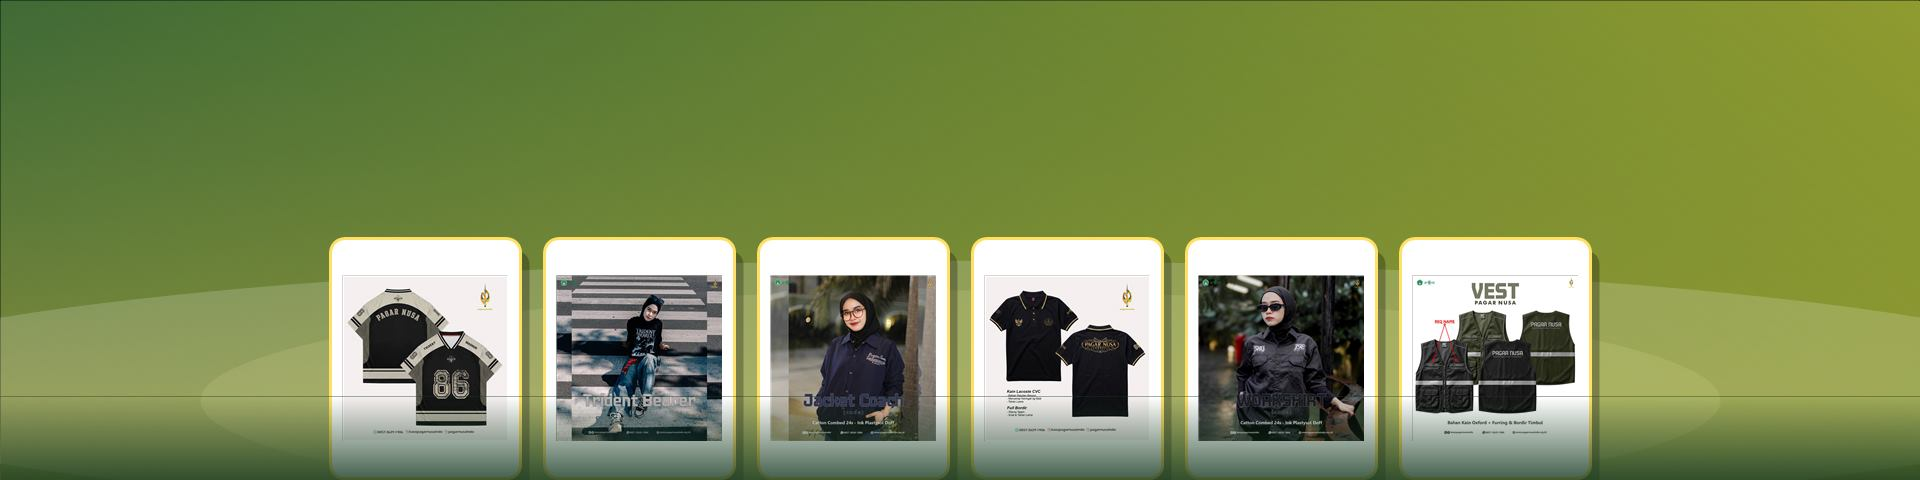
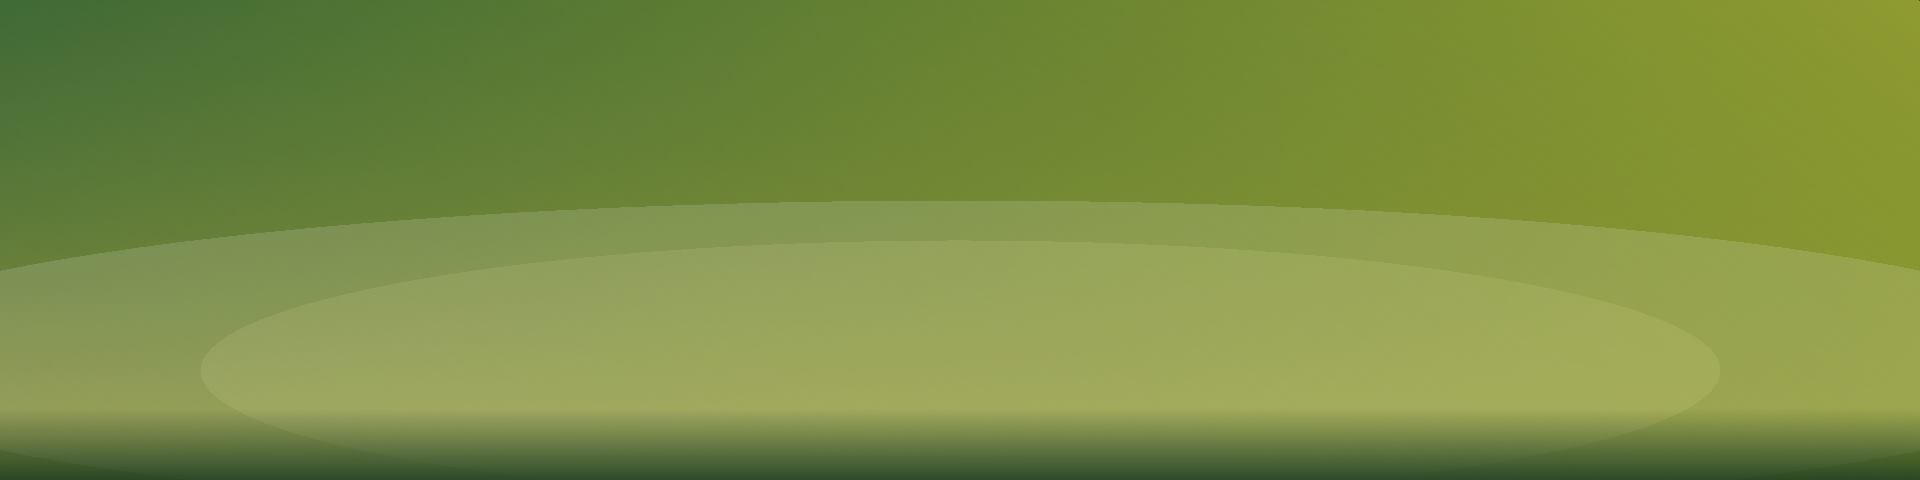
Carousel produk header: 3 kartu terlihat + panah geser

diff --git a/index.html b/index.html
@@ -104,6 +104,81 @@ header {
             text-shadow: 1px 1px 3px rgba(0,0,0,0.5);
         }
 
+        /* ===== CAROUSEL PRODUK DI HEADER ===== */
+        .carousel {
+            position: relative;
+            z-index: 1;
+            width: 92%;
+            max-width: 1200px;
+            margin: 0.4rem auto 1rem;
+        }
+
+        .carousel-viewport {
+            overflow: hidden;
+            border-radius: 14px;
+        }
+
+        .carousel-track {
+            display: flex;
+            gap: 16px;
+            transition: transform 0.4s ease;
+        }
+
+        .carousel-card {
+            flex: 0 0 calc((100% - 32px) / 3);
+            background: white;
+            border-radius: 12px;
+            overflow: hidden;
+            box-shadow: 0 4px 18px rgba(0,0,0,0.22);
+            border: 3px solid rgba(245,214,71,0.55);
+        }
+
+        .carousel-card img {
+            width: 100%;
+            aspect-ratio: 1 / 1;
+            object-fit: cover;
+            display: block;
+        }
+
+        .carousel-card .card-name {
+            padding: 0.55rem 0.4rem;
+            text-align: center;
+            font-weight: 600;
+            font-size: 0.88rem;
+            color: #1f4a2d;
+            background: white;
+            white-space: nowrap;
+            overflow: hidden;
+            text-overflow: ellipsis;
+        }
+
+        .carousel-arrow {
+            position: absolute;
+            top: 50%;
+            transform: translateY(-50%);
+            width: 44px;
+            height: 44px;
+            border-radius: 50%;
+            background: rgba(0,0,0,0.55);
+            color: #fff;
+            border: 2px solid rgba(255,255,255,0.35);
+            font-size: 1.4rem;
+            cursor: pointer;
+            display: flex;
+            align-items: center;
+            justify-content: center;
+            z-index: 10;
+            transition: background 0.2s;
+            box-shadow: 0 2px 8px rgba(0,0,0,0.35);
+        }
+
+        .carousel-arrow:hover {
+            background: rgba(0,0,0,0.82);
+        }
+
+        .carousel-arrow.prev { left: -22px; }
+        .carousel-arrow.next { right: -22px; }
+
         /* ===== CONTAINER ===== */
         .container {
             max-width: 1100px;
@@ -847,10 +922,31 @@ header {
                 background-attachment: scroll;
             }
 
-            header {
-                min-height: 420px;
+header {
+                min-height: 480px;
                 padding: 2.5rem 1rem;
             }
+
+            .carousel {
+                width: 96%;
+            }
+
+            .carousel-track {
+                gap: 12px;
+            }
+
+            .carousel-card {
+                flex: 0 0 calc(100% - 12px);
+            }
+
+            .carousel-arrow {
+                width: 36px;
+                height: 36px;
+                font-size: 1.1rem;
+            }
+
+            .carousel-arrow.prev { left: 2px; }
+            .carousel-arrow.next { right: 2px; }
 
             header p {
                 font-size: 0.95rem;
@@ -972,6 +1068,13 @@ header {
     <!-- HEADER -->
     <header>
         <img src="logo.png" alt="pagarnusaindo Logo" class="logo">
+        <div class="carousel" id="product-carousel">
+            <button class="carousel-arrow prev" onclick="carouselMove(-1)" aria-label="Produk sebelumnya">&#10094;</button>
+            <div class="carousel-viewport">
+                <div class="carousel-track" id="carousel-track"></div>
+            </div>
+            <button class="carousel-arrow next" onclick="carouselMove(1)" aria-label="Produk berikutnya">&#10095;</button>
+        </div>
         <p>Gaya Kasual Modern untuk Aktivitas Sehari-hari</p>
         <a href="#preorder" class="btn-cta"><i class="fas fa-box-open"></i> &nbsp;Lihat Koleksi</a>
     </header>
@@ -1481,6 +1584,41 @@ header {
         // Setup awal setelah render grid utama
         setupSliders();
         setupWaLinks();
+
+        // ============================================
+        // CAROUSEL PRODUK DI HEADER (3 terlihat + panah)
+        // ============================================
+        (function () {
+            var _ci = 0;
+            function buildCarousel() {
+                var track = document.getElementById('carousel-track');
+                if (!track) return;
+                var all = getEffectiveProducts();
+                track.innerHTML = all.map(function (p) {
+                    return '<div class="carousel-card">' +
+                        '<img src="' + p.images[0] + '" alt="' + p.name + '" loading="eager">' +
+                        '<div class="card-name">' + p.name + '</div>' +
+                        '</div>';
+                }).join('');
+                _ci = 0;
+                track.style.transform = 'translateX(0)';
+            }
+            window.carouselMove = function (dir) {
+                var track = document.getElementById('carousel-track');
+                if (!track) return;
+                var cards = track.querySelectorAll('.carousel-card');
+                var n = cards.length;
+                var w = window.innerWidth;
+                var vis = w <= 640 ? 1 : w <= 1024 ? 2 : 3;
+                var maxIdx = Math.max(0, n - vis);
+                _ci = Math.max(0, Math.min(maxIdx, _ci + dir));
+                if (cards[0]) {
+                    var cw = cards[0].getBoundingClientRect().width + 16;
+                    track.style.transform = 'translateX(-' + (_ci * cw) + 'px)';
+                }
+            };
+            buildCarousel();
+        })();
 
         // Lazy-load gambar di bawah layar (hemat data di HP)
         document.querySelectorAll('.social-gallery img, .testimoni-img').forEach(function (img) {
